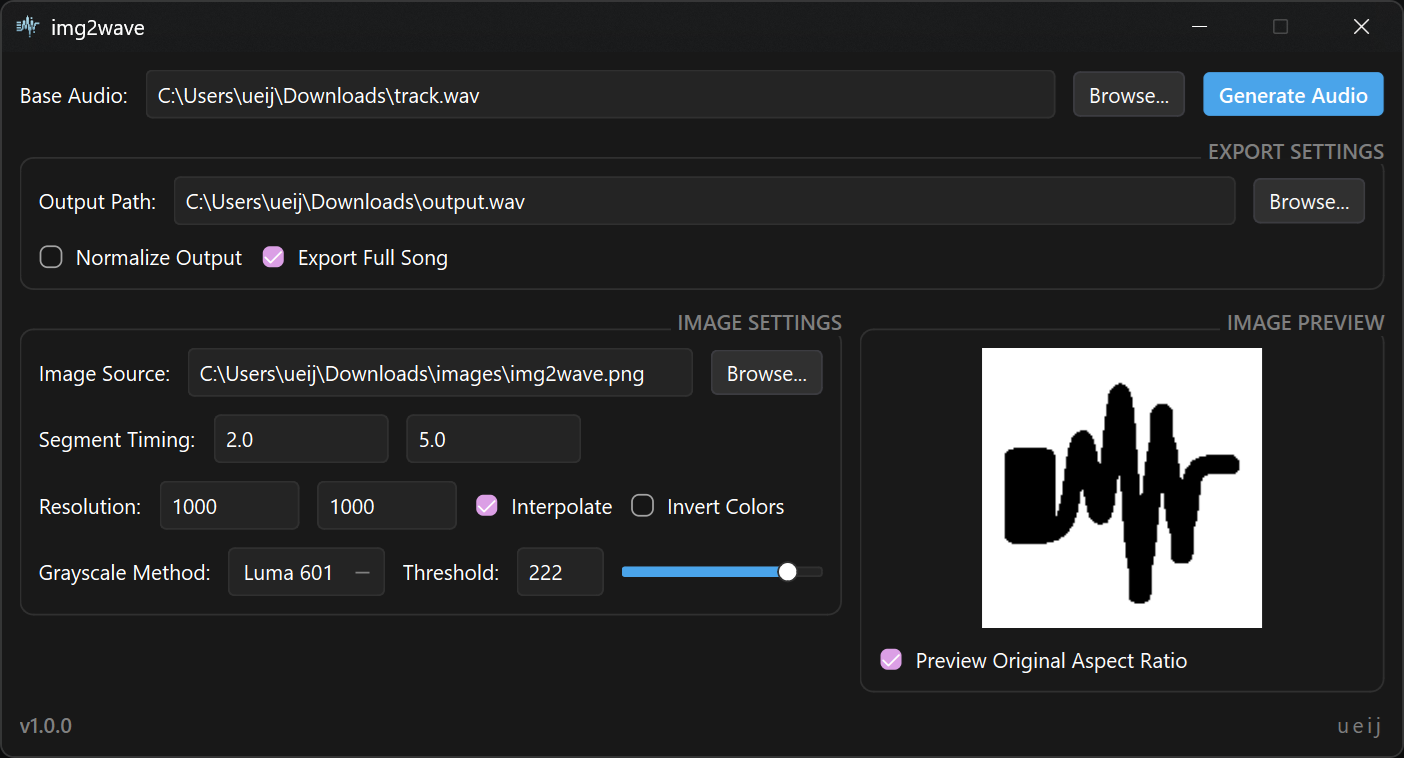
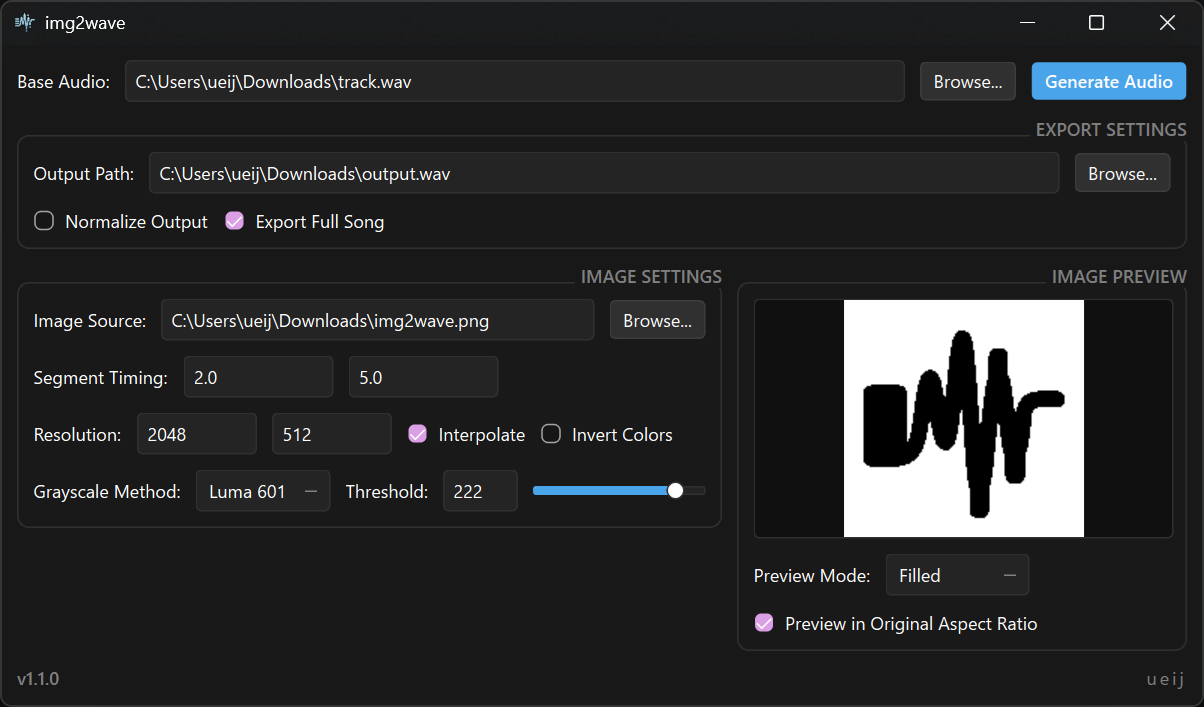
feat: add preview modes and optimized pixmap generation

diff --git a/gui.py b/gui.py
@@ -97,6 +97,17 @@ class ImageToWaveWindow(QMainWindow):
         self._cached_grayscale_method = None
         self._cached_gray_array = None
 
+        self._last_preview_params = {
+            "image_path": None,
+            "width": None,
+            "height": None,
+            "threshold": None,
+            "grayscale_method": None,
+            "invert": None,
+            "mode": None,
+            "aspect_ratio": None
+        }
+
         self.PREVIEW_MAX_WIDTH = 280
         self.PREVIEW_MAX_HEIGHT = 160
 
@@ -282,25 +293,50 @@ class ImageToWaveWindow(QMainWindow):
         self.preview_section = QGroupBox("IMAGE PREVIEW")
         self.preview_section.setObjectName("PreviewSection")
         self.preview_section.setFixedWidth(300)
-        self.preview_section.setFixedHeight(220)
 
-        preview_section_layout = self._create_vbox(margins=(10, 10, 10, 10))
+        preview_section_layout = self._create_vbox(margins=(10, 10, 10, 10), spacing=10)
         self.preview_section.setLayout(preview_section_layout)
+
+        self.preview_box = QWidget()
+        self.preview_box.setObjectName("PreviewBox")
+        self.preview_box.setFixedSize(self.PREVIEW_MAX_WIDTH, self.PREVIEW_MAX_HEIGHT)
+        
+        preview_box_layout = QVBoxLayout(self.preview_box)
+        preview_box_layout.setContentsMargins(1, 1, 1, 1)
+        preview_box_layout.setSpacing(0)
 
         self.preview_label = QLabel("No image loaded.")
         self.preview_label.setAlignment(Qt.AlignmentFlag.AlignCenter)
         self.preview_label.setStyleSheet(f"color: {self.TEXT_MUTED}; font-style: italic;")
-        preview_section_layout.addWidget(self.preview_label)
+        preview_box_layout.addWidget(self.preview_label)
 
-        self.aspect_ratio_checkbox = self._create_checkbox("Preview Original Aspect Ratio", True)
+        preview_section_layout.addWidget(self.preview_box, alignment=Qt.AlignmentFlag.AlignCenter)
+
+        mode_row_layout = self._create_hbox()
+        mode_label = QLabel("Preview Mode:")
+        self.mode_combo = QComboBox()
+        
+        self.mode_combo.addItem("Colored", "colored")
+        self.mode_combo.addItem("Grayscaled", "grayscaled")
+        self.mode_combo.addItem("Binarized", "binarized")
+        self.mode_combo.addItem("Filled", "filled")
+        
+        self.mode_combo.setCurrentIndex(3)
+
+        mode_row_layout.addWidget(mode_label, alignment=Qt.AlignmentFlag.AlignVCenter)
+        mode_row_layout.addWidget(self.mode_combo, alignment=Qt.AlignmentFlag.AlignVCenter)
+        mode_row_layout.addStretch()
+        preview_section_layout.addLayout(mode_row_layout)
+
+        self.aspect_ratio_checkbox = self._create_checkbox("Preview in Original Aspect Ratio", True)
         preview_section_layout.addWidget(self.aspect_ratio_checkbox, alignment=Qt.AlignmentFlag.AlignLeft)
 
-        settings_container_layout.addWidget(self.preview_section)
+        settings_container_layout.addWidget(self.preview_section, alignment=Qt.AlignmentFlag.AlignTop)
 
         main_layout.addLayout(settings_container_layout)
 
         footer_layout = self._create_hbox()
-        self.version_label = QLabel("v1.0.0")
+        self.version_label = QLabel("v1.1.0")
         self.version_label.setObjectName("VersionText")
         self.author_label = QLabel("ueij")
         self.author_label.setObjectName("AuthorText")
@@ -317,6 +353,7 @@ class ImageToWaveWindow(QMainWindow):
         self.height_input.textChanged.connect(self.update_preview)
         self.threshold_input.textChanged.connect(self.update_preview)
         self.grayscale_combo.currentIndexChanged.connect(self.update_preview)
+        self.mode_combo.currentIndexChanged.connect(self.update_preview)
         self.invert_checkbox.stateChanged.connect(self.update_preview)
         self.aspect_ratio_checkbox.stateChanged.connect(self.update_preview)
 
@@ -327,8 +364,8 @@ class ImageToWaveWindow(QMainWindow):
 
         self.setMinimumWidth(800)
         hint_height = self.centralWidget().layout().sizeHint().height()
+        self.setMinimumHeight(hint_height)
         self.resize(800, hint_height)
-        self.setFixedHeight(hint_height)
 
     def _create_hbox(self, margins=(0, 0, 0, 0), spacing=10):
         layout = QHBoxLayout()
@@ -476,6 +513,7 @@ class ImageToWaveWindow(QMainWindow):
     def update_preview(self):
         image_path = self.path_input.text().strip()
         if not image_path or not Path(image_path).exists():
+            self.preview_label.setPixmap(QPixmap())
             self.preview_label.setText("No image loaded.")
             self.preview_label.setStyleSheet(f"color: {self.TEXT_MUTED}; font-style: italic;")
 
@@ -485,6 +523,10 @@ class ImageToWaveWindow(QMainWindow):
             self._cached_height = None
             self._cached_grayscale_method = None
             self._cached_gray_array = None
+            self._last_preview_params = {
+                "image_path": None, "width": None, "height": None, "threshold": None,
+                "grayscale_method": None, "invert": None, "mode": None, "aspect_ratio": None
+            }
             return
 
         try:
@@ -494,24 +536,58 @@ class ImageToWaveWindow(QMainWindow):
             if not (1 <= width <= 9999) or not (1 <= height <= 9999) or not (0 <= threshold <= 255):
                 raise ValueError
         except ValueError:
+            self.preview_label.setPixmap(QPixmap())
             self.preview_label.setText("Invalid settings.")
             self.preview_label.setStyleSheet(f"color: {self.TEXT_MUTED}; font-style: italic;")
             return
 
         grayscale_method = self.grayscale_combo.currentData()
         invert = self.invert_checkbox.isChecked()
+        mode = self.mode_combo.currentData()
+        aspect_ratio = self.aspect_ratio_checkbox.isChecked()
+
+        if (self._last_preview_params["image_path"] == image_path and
+                self._last_preview_params["width"] == width and
+                self._last_preview_params["height"] == height and
+                self._last_preview_params["invert"] == invert and
+                self._last_preview_params["mode"] == mode and
+                self._last_preview_params["aspect_ratio"] == aspect_ratio):
+            
+            if mode == "colored":
+                return
+            
+            if mode == "grayscaled" and self._last_preview_params["grayscale_method"] == grayscale_method:
+                return
+            
+            if (mode in ("binarized", "filled") and 
+                    self._last_preview_params["threshold"] == threshold and 
+                    self._last_preview_params["grayscale_method"] == grayscale_method):
+                return
 
         try:
-            pixmap = self._generate_preview_pixmap(image_path, width, height, threshold, grayscale_method, invert)
+            pixmap = self._generate_preview_pixmap(image_path, width, height, threshold, grayscale_method, invert, mode)
             if pixmap:
                 self.preview_label.setPixmap(pixmap)
+
+                self._last_preview_params.update({
+                    "image_path": image_path,
+                    "width": width,
+                    "height": height,
+                    "threshold": threshold,
+                    "grayscale_method": grayscale_method,
+                    "invert": invert,
+                    "mode": mode,
+                    "aspect_ratio": aspect_ratio
+                })
             else:
+                self.preview_label.setPixmap(QPixmap())
                 self.preview_label.setText("Preview error.")
         except Exception as e:
             print(f"Error calculating preview internally: {e}")
+            self.preview_label.setPixmap(QPixmap())
             self.preview_label.setText("Preview error.")
 
-    def _get_or_create_gray_array(self, image_path, width, height, grayscale_method):
+    def _get_original_image(self, image_path):
         if self._cached_image_path != image_path or self._cached_original_image is None:
             try:
                 with Image.open(image_path) as img:
@@ -533,15 +609,20 @@ class ImageToWaveWindow(QMainWindow):
                 print(f"Error loading image: {e}")
                 self._cached_original_image = None
                 self._cached_image_path = None
-                return None, None
+                return None
+        return self._cached_original_image
+
+    def _get_or_create_gray_array(self, proc_w, proc_h, grayscale_method):
+        if self._cached_original_image is None:
+            return None
 
         if (self._cached_gray_array is None or
-                self._cached_width != width or
-                self._cached_height != height or
+                self._cached_width != proc_w or
+                self._cached_height != proc_h or
                 self._cached_grayscale_method != grayscale_method):
             try:
                 img_resized = self._cached_original_image.resize(
-                    (width, height), 
+                    (proc_w, proc_h), 
                     resample=Image.Resampling.BILINEAR
                 )
                 
@@ -563,41 +644,25 @@ class ImageToWaveWindow(QMainWindow):
                         img_gray = np.dot(img_array.astype(np.float32), weights).astype(np.uint8)
                 
                 self._cached_gray_array = img_gray
-                self._cached_width = width
-                self._cached_height = height
+                self._cached_width = proc_w
+                self._cached_height = proc_h
                 self._cached_grayscale_method = grayscale_method
                 
             except Exception as e:
                 print(f"Error rendering grayscale array: {e}")
                 self._cached_gray_array = None
-                return None, None
+                return None
                 
-        return self._cached_gray_array, self._cached_original_image.size
+        return self._cached_gray_array
 
-    def _generate_preview_pixmap(self, image_path, width, height, threshold, grayscale_method, invert):
+    def _generate_preview_pixmap(self, image_path, width, height, threshold, grayscale_method, invert, mode):
         clamped_threshold = max(0, min(255, int(threshold)))
         
-        gray_array, original_size = self._get_or_create_gray_array(image_path, width, height, grayscale_method)
-        if gray_array is None or original_size is None:
+        orig_img = self._get_original_image(image_path)
+        if orig_img is None:
             return None
-
-        if invert:
-            binary_grid = gray_array >= clamped_threshold
-        else:
-            binary_grid = gray_array < clamped_threshold
             
-        has_active = np.any(binary_grid, axis=0)
-        first_y = np.argmax(binary_grid, axis=0)
-        last_y = (height - 1) - np.argmax(binary_grid[::-1, :], axis=0)
-        
-        r_indices = np.arange(height)[:, None]
-        filled_grid = has_active & (r_indices >= first_y) & (r_indices <= last_y)
-        
-        debug_fill = (~filled_grid).astype(np.uint8) * 255
-        
-        preview_pil = Image.fromarray(debug_fill)
-        
-        orig_width, orig_height = original_size
+        orig_width, orig_height = orig_img.size
 
         if self.aspect_ratio_checkbox.isChecked():
             aspect_ratio = orig_width / orig_height
@@ -614,11 +679,67 @@ class ImageToWaveWindow(QMainWindow):
             
         preview_w = max(1, preview_w)
         preview_h = max(1, preview_h)
+
+        proc_w = max(1, min(width, preview_w))
+        proc_h = max(1, min(height, preview_h))
+
+        is_color = False
+
+        if mode == "colored":
+            try:
+                img_resized = orig_img.resize(
+                    (proc_w, proc_h), 
+                    resample=Image.Resampling.BILINEAR
+                )
+                img_array = np.array(img_resized)
+                if invert:
+                    img_array = 255 - img_array
+                preview_pil = Image.fromarray(img_array)
+                is_color = True
+            except Exception as e:
+                print(f"Error rendering colored preview: {e}")
+                return None
+
+        else:
+            gray_array = self._get_or_create_gray_array(proc_w, proc_h, grayscale_method)
+            if gray_array is None:
+                return None
+
+            if mode == "grayscaled":
+                processed_gray = 255 - gray_array if invert else gray_array
+                preview_pil = Image.fromarray(processed_gray)
+
+            elif mode == "binarized":
+                if invert:
+                    binary_grid = gray_array >= clamped_threshold
+                else:
+                    binary_grid = gray_array < clamped_threshold
+                binarized_array = (~binary_grid).astype(np.uint8) * 255
+                preview_pil = Image.fromarray(binarized_array)
+
+            else:
+                if invert:
+                    binary_grid = gray_array >= clamped_threshold
+                else:
+                    binary_grid = gray_array < clamped_threshold
+                    
+                has_active = np.any(binary_grid, axis=0)
+                first_y = np.argmax(binary_grid, axis=0)
+                last_y = (proc_h - 1) - np.argmax(binary_grid[::-1, :], axis=0)
+                
+                r_indices = np.arange(proc_h)[:, None]
+                filled_grid = has_active & (r_indices >= first_y) & (r_indices <= last_y)
+                
+                debug_fill = (~filled_grid).astype(np.uint8) * 255
+                preview_pil = Image.fromarray(debug_fill)
         
         preview_pil_resized = preview_pil.resize((preview_w, preview_h), resample=Image.Resampling.NEAREST)
         
         im_bytes = preview_pil_resized.tobytes()
-        qimg = QImage(im_bytes, preview_w, preview_h, preview_w, QImage.Format.Format_Grayscale8)
+        if is_color:
+            qimg = QImage(im_bytes, preview_w, preview_h, preview_w * 3, QImage.Format.Format_RGB888)
+        else:
+            qimg = QImage(im_bytes, preview_w, preview_h, preview_w, QImage.Format.Format_Grayscale8)
         
         return QPixmap.fromImage(qimg.copy())
 
@@ -841,6 +962,12 @@ class ImageToWaveWindow(QMainWindow):
                 subcontrol-origin: margin;
                 subcontrol-position: top right;
                 padding: 0 2px;
+            }}
+
+            QWidget#PreviewBox {{
+                background-color: rgb(16, 16, 16);
+                border: 1px solid {self.SECTION_BORDER};
+                border-radius: 4px;
             }}
 
             QSlider::groove:horizontal {{

diff --git a/README.md b/README.md
@@ -1,4 +1,4 @@
-# img2wave (v1.0.0)
+# img2wave (v1.1.0)
 
 ![img2wave Title](images/img2wave_title.png)
 
@@ -15,7 +15,7 @@
 * **Resolution** Manually define the processing width and height of the image analysis (larger dimensions provide finer boundary details).
 * **Interpolate:** Toggle between smooth linear interpolation and blocky nearest-neighbor interpolation.
 * **Invert Colors:** Instantly swap dark and light spaces to process light shapes on dark backgrounds.
-* **Dynamic Threshold Control:** Use the slider or text input (0–255) to quickly dial in the binarization threshold.
+* **Threshold:** Use the slider or text input (0–255) to quickly dial in the binarization threshold.
 * **Grayscale Methods:** Choose from Luma 601, Luma 709, Average, or Lightness algorithms to handle color-to-grayscale conversion.
 * **Export Settings:**
   * **Export Full Song:** Toggle between exporting the entire base audio track (with the modulated portion mixed in) or just the isolated modulated segment.
@@ -25,10 +25,11 @@
 ## How to Use the Windows App (.exe)
 
 1. Go to the **Releases** tab on the right side of this GitHub repository.
-2. Download `img2wave-v1.0.0-windows-x64.exe`.
+2. Download `img2wave-v1.1.0-windows-x64.exe`.
 3. Run the executable.
-4. **Select Base Audio:** Click "Browse..." and select your base audio track.
-5. **Select Image Source:** Click "Browse..." and select the image you want to extract contours from.
+4. **Select Base Audio:** Select your base audio track.
+5. **Select Output Path:** Select the directory where the output will be saved.
+5. **Select Image Source:** Select the image you want to extract contours from.
 6. **Set Segment Timing:** Input the start time and end time (in seconds) where you want the visual shape to modulate the audio.
 7. **Generate:** Click **Generate Audio**.
 